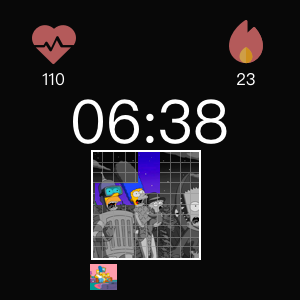
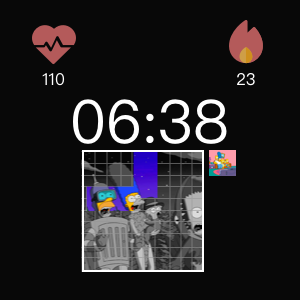
update

Changed region(s): [[0.27, 0.48, 0.81, 0.99]]

diff --git a/templates/intro.html b/templates/intro.html
@@ -3,6 +3,7 @@
 <head>
   <meta charset="UTF-8">
   <link href="https://cdn.jsdelivr.net/npm/bootstrap@5.0.0-beta2/dist/css/bootstrap.min.css" rel="stylesheet" integrity="sha384-BmbxuPwQa2lc/FVzBcNJ7UAyJxM6wuqIj61tLrc4wSX0szH/Ev+nYRRuWlolflfl" crossorigin="anonymous">
+  <script src="https://ajax.googleapis.com/ajax/libs/jquery/3.4.1/jquery.min.js"></script>
   <style>
     body {
       padding-left: 20%;
@@ -72,7 +73,7 @@
           <source src='static/videos/AVideo.mp4' type="video/mp4">
         </video> -->
         <!-- <video controls id='video' width="640" height="480" src=''></video> -->
-        <img class='illustration' src='static/images/illustrations/D.png'>
+        <img id='illustration' src=''>
 
         <!-- <iframe id='video' src="" width="640" height="480"></iframe> -->
         
@@ -84,55 +85,7 @@
 </body>  
 <script>
     var letter = '{{letter}}';
-    // var not_watched_25 = true;
-    // var not_watched_50 = true;
-    // var not_watched_75 = true;
-
-    // var dict = {'A': "static/videos/AVideo.mp4",
-    //             'B': "static/videos/BVideo.mp4",
-    //             'C': "static/videos/CVideo.mp4",
-    //             'D': "static/videos/DVideo.mp4",
-    //             'E': "static/videos/EVideo.mp4",
-    //             'F': "static/videos/FVideo.mp4",
-    //             'G': "static/videos/GVideo.mp4",
-    //             'H': "static/videos/HVideo.mp4",
-    //             'I':"static/videos/IVideo.mp4",
-    //             'J':"static/videos/JVideo.mp4",
-    //             'K':"static/videos/KVideo.mp4",
-    //             'M':"static/videos/MVideo.mp4",
-    //             'N':"static/videos/NVideo.mp4",
-    //             'O':"static/videos/OVideo.mp4",
-    //             'P':"static/videos/PVideo.mp4",
-    //             'Q':"static/videos/QVideo.mp4"};
-
-    // document.getElementById('video').src = dict[letter];
-
-    //Track 25%, 50%, and 75% of video watched
-
-
-    // $("#video").on("timeupdate", function() {
-    //   var currentTime = $("#video").prop("currentTime");
-    //   var duration = $("#video").prop("duration");
-    //   //double percentages will occur because of calculations. ie. 25.1 % watched and 25.2%watched. 
-    //   //when fixed to decimal places 25 occurs and then 25 occurs again. 
-    //   //boolean value used to call pixel only once.
-    //   var percentage_watched = (currentTime / duration) * 100;
-    //   var video_progress = '';
-
-    //   if ((percentage_watched.toFixed() == 25) && (not_watched_25 == true)) {
-    //     console.log("watched 25%")
-        
-    //     not_watched_25 = false;
-    //   } else if ((percentage_watched.toFixed() == 50) && (not_watched_50 == true)) {
-    //     console.log("watched 50%")
-        
-    //     not_watched_50 = false;
-    //   } else if ((percentage_watched.toFixed() == 75) && (not_watched_75 == true)) {
-    //     console.log("watched 75%")
-        
-    //     not_watched_75 = false;
-    //   }
-    // })
+    document.getElementById('illustration').src = "static/images/illustrations/" + letter + '.png'
 
 
     // var dict = {'A': "https://drive.google.com/file/d/1VnL_DuSvYe_DO1qAjKpMnZj1txNchdye/preview",

diff --git a/templates/practicePage.html b/templates/practicePage.html
@@ -3,6 +3,7 @@
 <head>
     <meta charset="utf8"/>
     <link href="https://cdn.jsdelivr.net/npm/bootstrap@5.0.0-beta2/dist/css/bootstrap.min.css" rel="stylesheet" integrity="sha384-BmbxuPwQa2lc/FVzBcNJ7UAyJxM6wuqIj61tLrc4wSX0szH/Ev+nYRRuWlolflfl" crossorigin="anonymous">
+    <script src="https://ajax.googleapis.com/ajax/libs/jquery/3.4.1/jquery.min.js"></script>
     <style>
         body {
             padding-left: 20%;
@@ -30,11 +31,11 @@
         <form action="/practiceAnswer" class="form-inline" method="POST">
         <li>
             <h6>What are the progresses of these two interfaces?</h6>
-            <img src='static/images/pilot_study_photos/D/D4-1.png'><br>
+            <img id='interface1' src=''><br>
             <p>input your answer here: 
                 <input type="number" id="test1" name="test1" aria-label="First name"required>
             </p>
-            <img src='static/images/pilot_study_photos/D/D4-2.png'><br>
+            <img id='interface2' src=''><br>
             <p>input your answer here: <input type="number" id="test2" name="test2" aria-label="First name"required></p>
             <input id='submit' class="btn btn-primary" type="submit" value="Submit and check answer"/> 
         </li>
@@ -48,4 +49,9 @@
     
    
 </body>
+<script>
+    var letter = '{{letter}}';
+    document.getElementById('interface1').src = "static/images/pilot_study_photos/" + letter + "/" + letter + '4-1.png'
+    document.getElementById('interface2').src = "static/images/pilot_study_photos/" + letter + "/" + letter + '4-2.png'
+</script>
 </html>

diff --git a/templates/practiceAnswer.html b/templates/practiceAnswer.html
@@ -3,6 +3,7 @@
 <head>
     <meta charset="utf8"/>
     <link href="https://cdn.jsdelivr.net/npm/bootstrap@5.0.0-beta2/dist/css/bootstrap.min.css" rel="stylesheet" integrity="sha384-BmbxuPwQa2lc/FVzBcNJ7UAyJxM6wuqIj61tLrc4wSX0szH/Ev+nYRRuWlolflfl" crossorigin="anonymous">
+    <script src="https://ajax.googleapis.com/ajax/libs/jquery/3.4.1/jquery.min.js"></script>
     <style>
         body {
             padding-left: 20%;
@@ -41,12 +42,12 @@
     <h6 class="display-6">Practice</h6>
     <ol>
         <li>
-            <h6>What are the progresses of these two Simpsons interface?</h6>
-            <img src='static/images/pilot_study_photos/D/D4-1.png'><br>
+            <h6>What are the progresses of these two interfaces?</h6>
+            <img id='interface1' src=''><br>
             <p>your answer: 
                 {{test1}}<br>
                 <strong id='answer'>correct answer: 20%</strong></p>
-            <img src='static/images/pilot_study_photos/D/D4-2.png'><br>
+            <img id='interface2' src=''><br>
             <p>your answer: 
                 {{test2}}<br>
                 <strong id='answer'>correct answer: 140%</strong></p>
@@ -64,4 +65,9 @@
     
    
 </body>
+<script>
+    var letter = '{{letter}}';
+    document.getElementById('interface1').src = "static/images/pilot_study_photos/" + letter + "/" + letter + '4-1.png'
+    document.getElementById('interface2').src = "static/images/pilot_study_photos/" + letter + "/" + letter + '4-2.png'
+</script>
 </html>

diff --git a/app.py b/app.py
@@ -82,7 +82,7 @@ def update_final_question_to_users(date, completion, value, code):
 @app.route('/')
 @cross_origin(supports_credentials=True)
 def index():
-    # letterList = ['A', 'B', 'C', 'D', 'E', 'F', 'G', 'H', 'I', 'J', 'K', 'M', 'N', 'O', 'P', 'Q']
+    letterList = ['A', 'B', 'C', 'D', 'E', 'F', 'G', 'H', 'I', 'J', 'K', 'M', 'N', 'O', 'P', 'Q']
     
     
     scenarioList = ['first', 'second', 'third']
@@ -90,8 +90,8 @@ def index():
     # secondSession = ['21', '22']
     # thirdSession = ['31', '32']
 
-    # letter = random.choice(letterList)
-    letter = 'D'
+    letter = random.choice(letterList)
+    
     random.shuffle(scenarioList)
     number = str(uuid.uuid4())
     # first = letter + random.choice(firstSession)
@@ -125,8 +125,9 @@ def disagree():
 
 @app.route('/practice')
 def practice():
+    letter = session.get('letter', None)
  
-    return render_template('practicePage.html')
+    return render_template('practicePage.html', letter=letter)
 
 @app.route('/practiceAnswer', methods=['GET', 'POST'])
 def practiceAnswer():
@@ -137,8 +138,10 @@ def practiceAnswer():
         session['test1'] = test1
         session['test2'] = test2
         session.permanent = True
+
+        letter = session.get('letter', None)
  
-        return render_template('practiceAnswer.html', test1=test1, test2=test2)
+        return render_template('practiceAnswer.html', test1=test1, test2=test2, letter=letter)
 
 @app.route('/firstScenario')
 def firstScenario():
